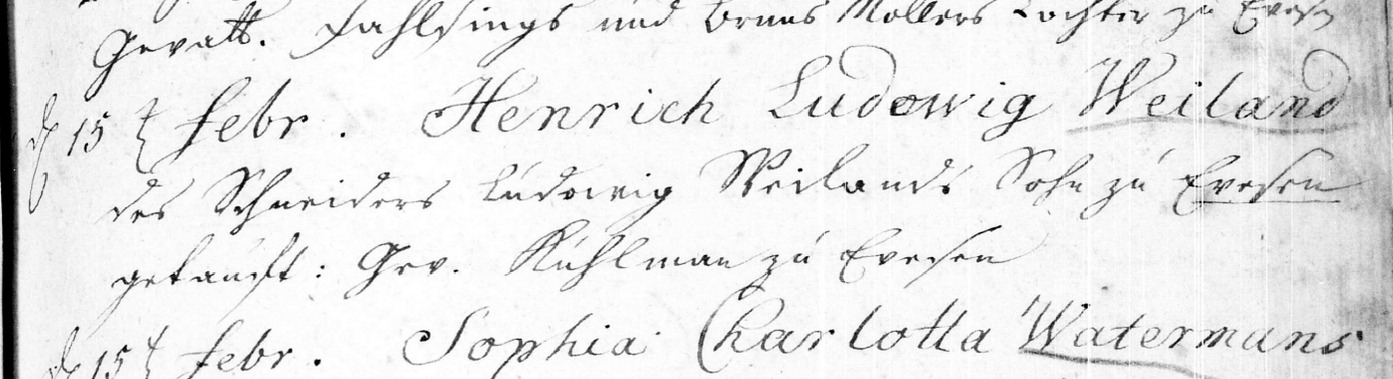
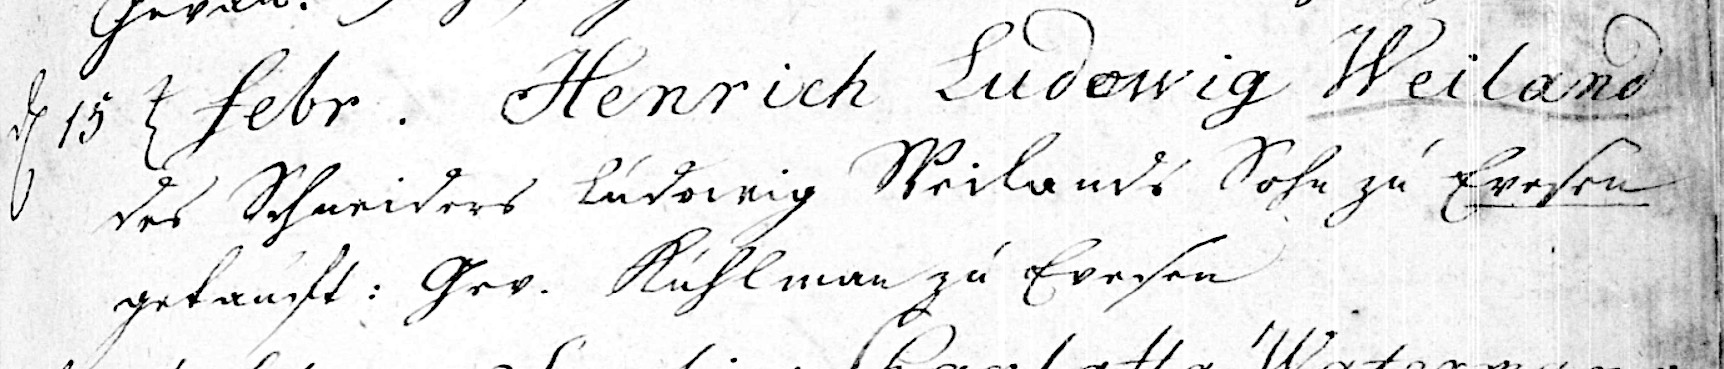
Update files

Changed region(s): [[0.0, 0.0, 1.0, 1.0], [0.7408, 0.5962, 0.7717, 0.626], [0.4013, 0.0, 0.4322, 0.0298]]

diff --git a/petzen/PET-B-1756a.md b/petzen/PET-B-1756a.md
@@ -1,0 +1,34 @@
+# 1756 Henrich Ludowig Weiland Baptism
+
+## Record
+
+The Februar 15, 1756, baptism record of HenrichLudowig Wilhelm Weiland is found on
+{doc}`image 193 <PET-B-1756a>` of the *Verzeichnis der Getauften und Konfirmierten 1641-1784*.
+
+```{figure} images/petzen-band1a-img193.jpg
+:class: image-override
+```
+
+## Transliteration
+
+```{div} doc-text
+d 15t Febr. Henrich Ludowig Weiland des Schneiders Ludowig Wieland Sohn zu
+Evesen getauft: Gev. Kuhlman zu Evesen.
+```
+
+## Translation
+
+```{div} doc-text
+On February 15{sup}`th`, Henrich Ludowig, the son of Henrich Ludowig tailor
+in Evesen, was baptized. Sponsor: Kuhlman at Evesen.
+```
+
+## Citation
+
+(PET-B-1756a)=
+
+"Archion Protestant Kirchenbücher Portal", database
+with images, *Archion* (<https://www.archion.de/p/9a17997854/> 17 Aug. 2026),
+path: Niedersachsen > Niedersächsisches Landesarchiv > Kirchenbücher
+der Evangelisch-Lutherischen Landeskirche Schaumburg-Lippe > Petzen >
+Verzeichnis der Getauften und Konfirmierten 1641-1784, image 193 of 322.

diff --git a/logs/petzen-kirchenbuecher-log.md b/logs/petzen-kirchenbuecher-log.md
@@ -166,16 +166,19 @@ FamilySearch tree.
   - 1745
   - This appears to be the birth to a Weiland daughter still living at
     home. The father's name is not given.
-* - 171-191
-  - 1745-1754
+* - 171-192
+  - 1745-1755
   - Hits put on website
-* - 192, 193, 194, 195, 198, 199
+* - 193, 194, 195, 198
   - 1754
   - **Hits MIGHT NOT beon website.**. Check first.
 
     - md page for 179 needs the image and more work.
 
     - images 187, 188 and 198 have two Weilands
+* - 199
+  -
+  - On website
 ```
 
 ## Review of Marriages 1641-1784

diff --git a/petzen/PET-B-1755c.md b/petzen/PET-B-1755c.md
@@ -3,7 +3,7 @@
 ## Record
 
 The Spetember 7, 1755, baptism record of Henrich Wilhelm Weiland is found on
-{doc}`image 192 <PET-B-1755c>` of the * Verzeichnis der Getauften und Konfirmierten 1641-1784*.
+{doc}`image 192 <PET-B-1755c>` of the *Verzeichnis der Getauften und Konfirmierten 1641-1784*.
 
 ```{figure} images/petzen-band1a-img192.jpg
 :class: image-override
